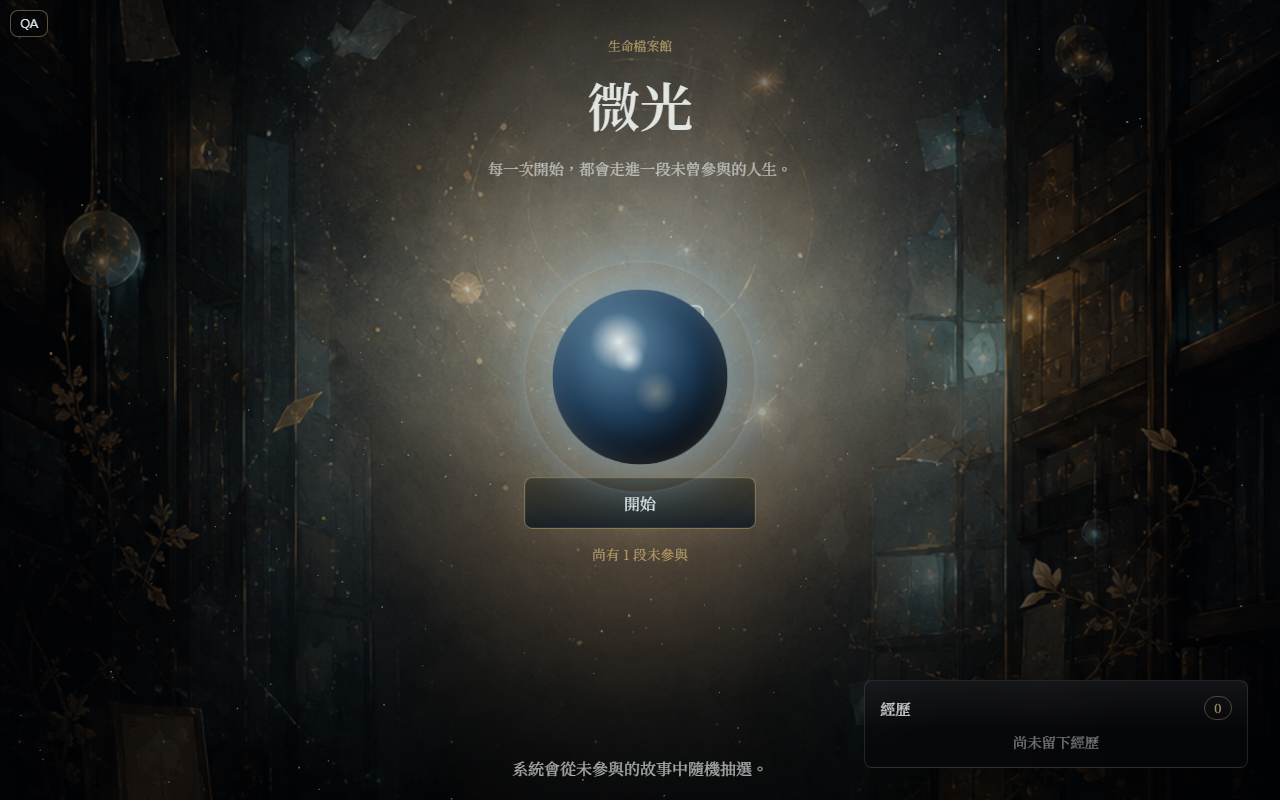
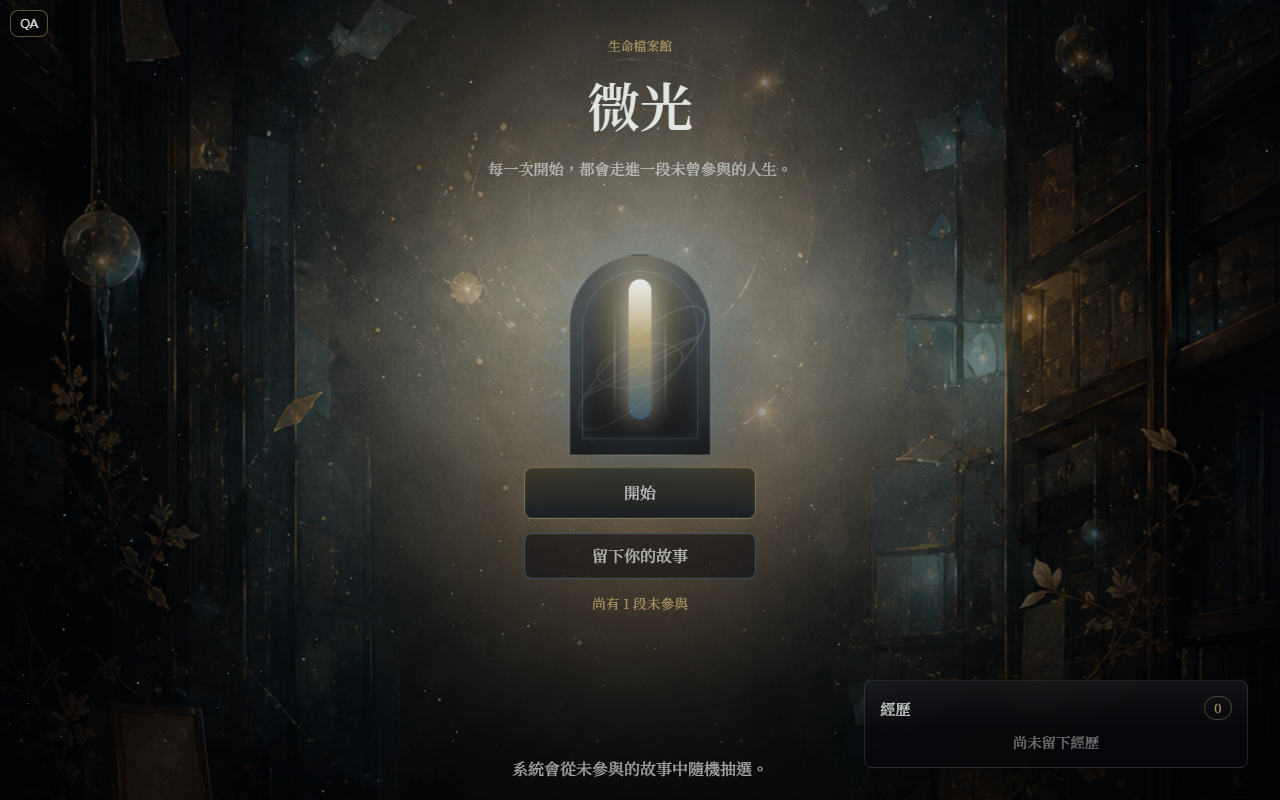
Improve archive home CTA

Changed region(s): [[0.4062, 0.3125, 0.5938, 0.7812]]

diff --git a/web/styles.css b/web/styles.css
@@ -160,18 +160,19 @@ button {
 
 .memory-orb {
   position: relative;
-  width: min(38vw, 10.75rem);
-  aspect-ratio: 1;
-  border: 0;
-  border-radius: 50%;
+  width: min(31vw, 8.5rem);
+  aspect-ratio: 7 / 10;
+  border: 1px solid rgba(239, 243, 241, 0.18);
+  border-radius: 999px 999px 18px 18px;
   padding: 0;
   background:
-    radial-gradient(circle at 38% 30%, rgba(239, 243, 241, 0.95), rgba(125, 189, 232, 0.55) 18%, rgba(37, 74, 107, 0.8) 45%, rgba(4, 7, 12, 0.96) 76%),
-    #0c111a;
+    linear-gradient(180deg, rgba(239, 243, 241, 0.14), rgba(125, 189, 232, 0.04) 44%, rgba(3, 4, 7, 0.68)),
+    radial-gradient(ellipse at 50% 26%, rgba(217, 189, 120, 0.42), transparent 3.2rem),
+    rgba(5, 8, 13, 0.68);
   box-shadow:
-    0 0 3rem rgba(125, 189, 232, 0.46),
-    0 0 8rem rgba(125, 189, 232, 0.20),
-    inset 0 0 1.5rem rgba(239, 243, 241, 0.22);
+    0 0 3.5rem rgba(125, 189, 232, 0.22),
+    0 1.6rem 5rem rgba(0, 0, 0, 0.42),
+    inset 0 0 2rem rgba(239, 243, 241, 0.08);
   cursor: pointer;
   touch-action: manipulation;
   animation: orbBreath 3.4s ease-in-out infinite;
@@ -182,9 +183,9 @@ button {
 .memory-orb:active {
   filter: brightness(1.08);
   box-shadow:
-    0 0 4.5rem rgba(125, 189, 232, 0.58),
-    0 0 10rem rgba(217, 189, 120, 0.22),
-    inset 0 0 1.8rem rgba(239, 243, 241, 0.26);
+    0 0 4.4rem rgba(125, 189, 232, 0.34),
+    0 0 8rem rgba(217, 189, 120, 0.16),
+    inset 0 0 2.2rem rgba(239, 243, 241, 0.12);
 }
 
 .memory-orb:disabled {
@@ -201,44 +202,93 @@ button {
 .orb-core,
 .orb-ring {
   position: absolute;
-  inset: 12%;
-  border-radius: 50%;
   pointer-events: none;
 }
 
 .orb-core {
-  background:
-    radial-gradient(circle at 42% 36%, rgba(239, 243, 241, 0.72), transparent 0.95rem),
-    radial-gradient(circle at 62% 62%, rgba(217, 189, 120, 0.36), transparent 1.35rem);
+  inset: 12% 42% 18%;
+  border-radius: 999px;
+  background: linear-gradient(180deg, rgba(239, 243, 241, 0.92), rgba(217, 189, 120, 0.58) 42%, rgba(125, 189, 232, 0.38));
+  box-shadow:
+    0 0 1.4rem rgba(239, 243, 241, 0.46),
+    0 0 3.6rem rgba(217, 189, 120, 0.28);
   mix-blend-mode: screen;
 }
 
 .orb-ring {
-  inset: -16%;
+  inset: 8%;
   border: 1px solid rgba(239, 243, 241, 0.16);
-  box-shadow: 0 0 2.8rem rgba(125, 189, 232, 0.28);
+  border-radius: 999px 999px 14px 14px;
+  box-shadow:
+    inset 0 0 1.4rem rgba(125, 189, 232, 0.10),
+    0 0 2.8rem rgba(125, 189, 232, 0.18);
+}
+
+.orb-ring::before,
+.orb-ring::after {
+  content: "";
+  position: absolute;
+  top: 18%;
+  bottom: 12%;
+  width: 1px;
+  background: linear-gradient(180deg, transparent, rgba(239, 243, 241, 0.34), transparent);
+}
+
+.orb-ring::before {
+  left: 27%;
+}
+
+.orb-ring::after {
+  right: 27%;
+}
+
+.start-random-button,
+.archive-write-story-button {
+  min-width: min(72vw, 14.5rem);
+  min-height: 3.25rem;
+  border-radius: 8px;
+  color: rgba(239, 243, 241, 0.96);
+  cursor: pointer;
+  transition: border-color 180ms ease, background 180ms ease, transform 180ms ease;
 }
 
 .start-random-button {
-  min-width: min(72vw, 14.5rem);
-  min-height: 3.25rem;
   border: 1px solid rgba(217, 189, 120, 0.48);
-  border-radius: 8px;
-  color: rgba(239, 243, 241, 0.96);
   background:
     linear-gradient(180deg, rgba(217, 189, 120, 0.22), rgba(125, 189, 232, 0.08)),
     rgba(8, 10, 15, 0.86);
   box-shadow:
     0 0 2.6rem rgba(217, 189, 120, 0.12),
     inset 0 0 0 1px rgba(255, 255, 255, 0.06);
-  cursor: pointer;
-  transition: border-color 180ms ease, background 180ms ease, transform 180ms ease;
+}
+
+.archive-write-story-button {
+  min-height: 2.85rem;
+  border: 1px solid rgba(125, 189, 232, 0.30);
+  color: rgba(239, 243, 241, 0.78);
+  background: rgba(8, 10, 15, 0.52);
+  box-shadow: inset 0 0 0 1px rgba(255, 255, 255, 0.035);
+}
+
+.archive-write-story-button:hover {
+  color: rgba(239, 243, 241, 0.94);
+  border-color: rgba(125, 189, 232, 0.52);
+  background: rgba(8, 10, 15, 0.72);
+}
+
+.archive-write-story-button:focus-visible {
+  outline: 2px solid var(--gold);
+  outline-offset: 0.25rem;
 }
 
 .start-random-button:not(:disabled):hover,
 .experience-card:hover {
   transform: translateY(-1px);
   border-color: rgba(217, 189, 120, 0.66);
+}
+
+.archive-write-story-button:hover {
+  transform: translateY(-1px);
 }
 
 .start-random-button:disabled {
@@ -776,7 +826,7 @@ button {
   }
 
   .memory-orb {
-    width: min(31vw, 8.4rem);
+    width: min(25vw, 6.8rem);
   }
 
   .experience-panel {

diff --git a/web/app.js b/web/app.js
@@ -57,6 +57,7 @@ const nodes = {
   archiveError: $("#archiveError"),
   memoryOrb: $("#memoryOrb"),
   startRandomButton: $("#startRandomButton"),
+  archiveWriteStoryButton: $("#archiveWriteStoryButton"),
   experienceCount: $("#experienceCount"),
   experienceList: $("#experienceList"),
   storyStage: $("#storyStage"),
@@ -120,6 +121,7 @@ async function init() {
 
   nodes.memoryOrb.addEventListener("click", startRandomStory);
   nodes.startRandomButton.addEventListener("click", startRandomStory);
+  nodes.archiveWriteStoryButton.addEventListener("click", openStorySubmission);
   nodes.archiveScreen.addEventListener("pointermove", onArchivePointerMove);
   nodes.returnArchiveButton.addEventListener("click", returnToArchive);
   nodes.writeStoryButton.addEventListener("click", openStorySubmission);

diff --git a/web/index.html b/web/index.html
@@ -27,6 +27,7 @@
           <span class="orb-ring" aria-hidden="true"></span>
         </button>
         <button id="startRandomButton" class="start-random-button" type="button">開始</button>
+        <button id="archiveWriteStoryButton" class="archive-write-story-button" type="button">留下你的故事</button>
         <p id="archiveStatus" class="archive-status">讀取故事庫中</p>
       </div>
 
